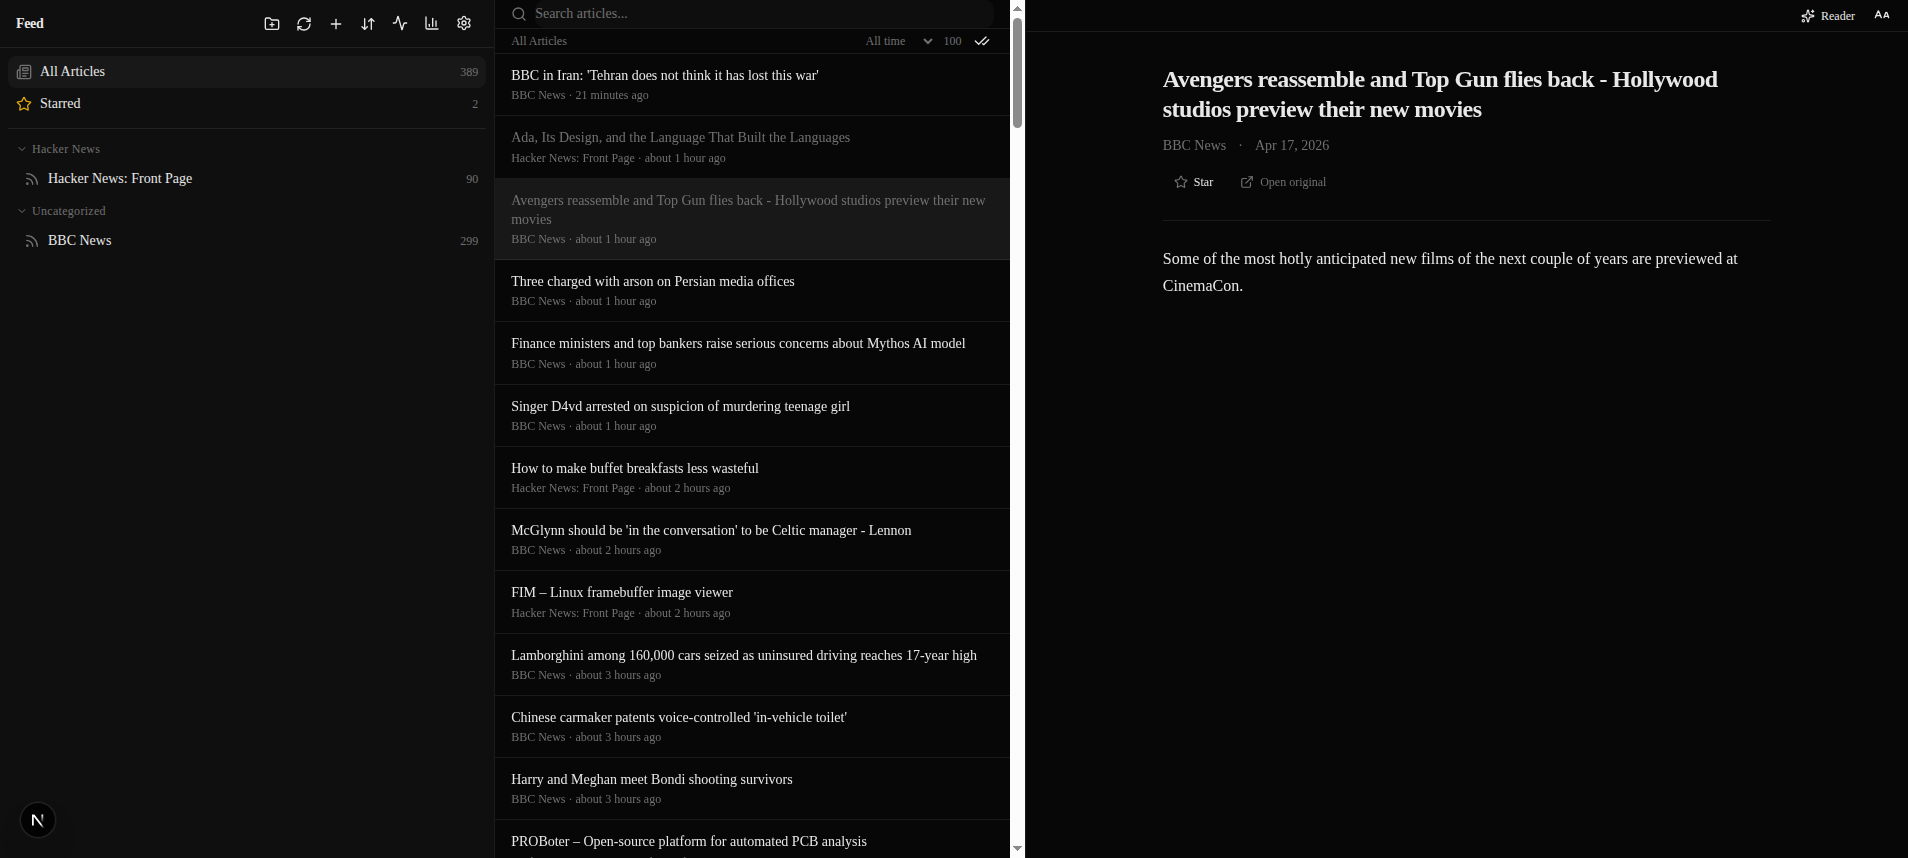
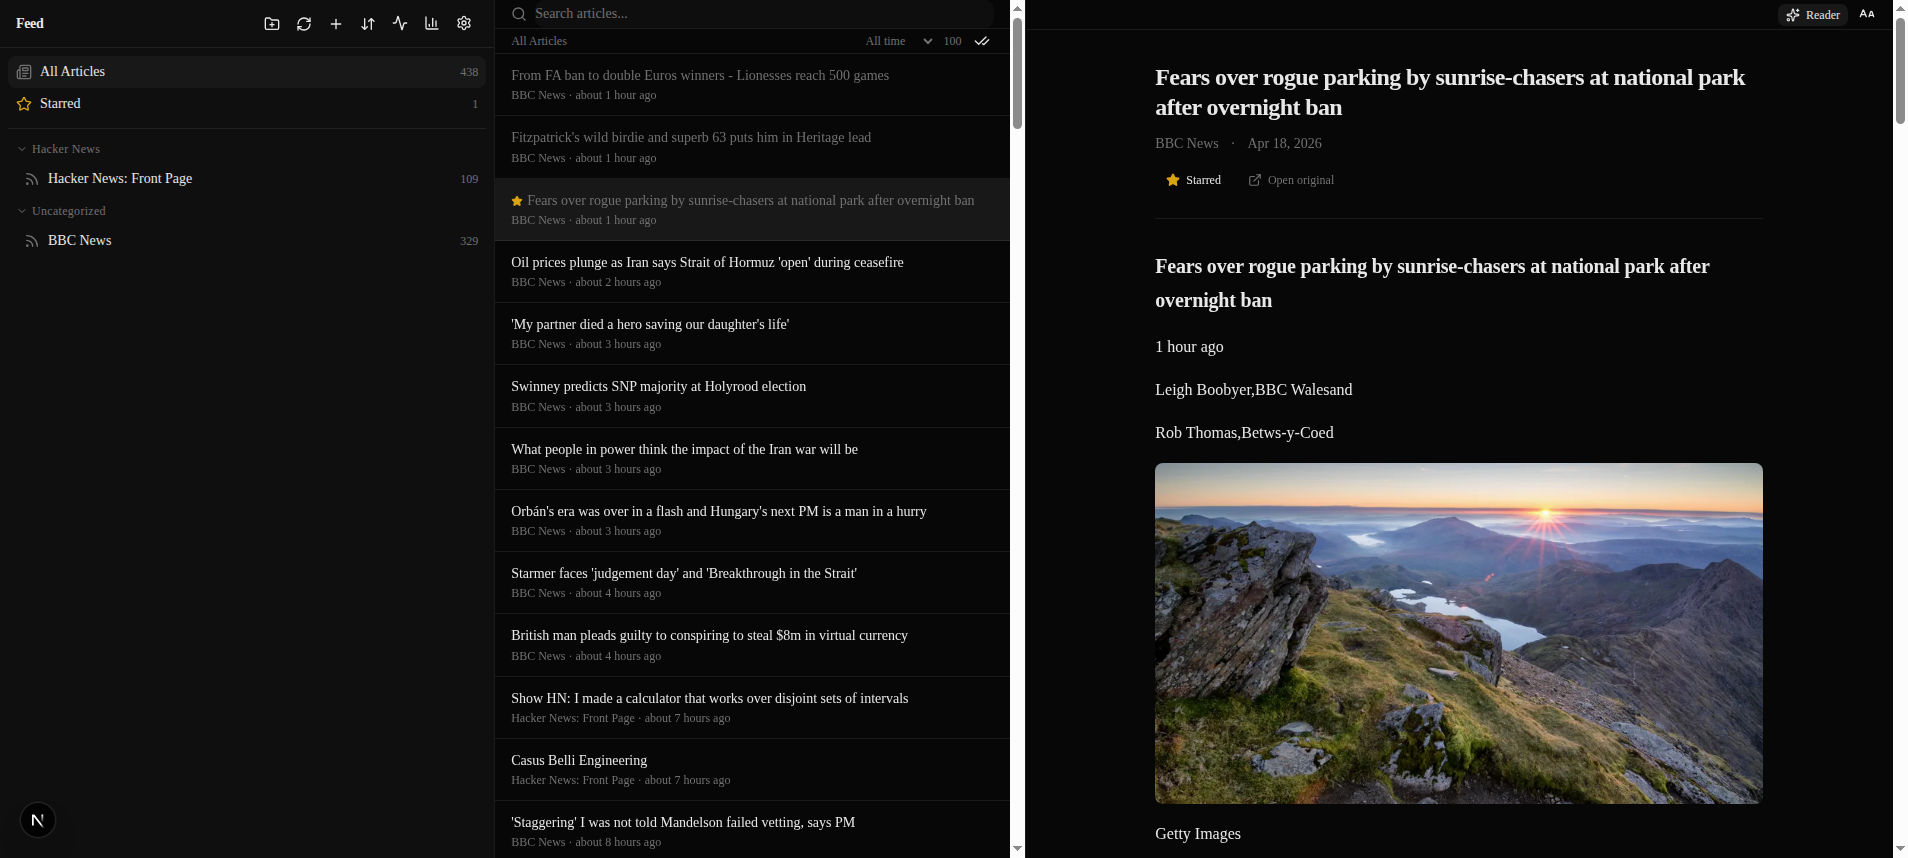
Update README with backup/restore and reader-mode screenshot
- Add backup & restore to the features list
- Mention backup endpoint and BackupSettings in the project layout
- Replace the home screenshot with a reader-mode view of a BBC
  article showing full extracted content with real images (no
  placeholders), which exercises the recent sanitize fixes

diff --git a/README.md b/README.md
@@ -29,9 +29,10 @@ A local-first RSS/Atom reader. Runs entirely on your machine, stores everything 
 - Feed health dashboard — frequency, freshness, error metrics
 - Retention policy — automatic pruning of old read articles (preserves starred, highlighted, unread)
 
-**Export**
+**Export & backup**
 - Starred articles as Markdown or JSON
 - OPML for feed subscriptions
+- Full data backup & restore — JSON export/import of feeds, articles, highlights, and settings
 
 **Interface**
 - Dark-mode-first design using oklch color tokens
@@ -91,10 +92,10 @@ Mutations     →  Server Actions → SQLite → optimistic UI update
 ```
 src/
 ├── app/              # Pages and API routes (App Router)
-│   ├── api/          # feeds, articles, opml, image-proxy, export
+│   ├── api/          # feeds, articles, opml, image-proxy, export, backup
 │   ├── health/       # Feed health dashboard
 │   ├── stats/        # Reading statistics
-│   ├── settings/     # Retention policy configuration
+│   ├── settings/     # Retention policy, backup & restore
 │   └── page.tsx      # Three-pane reader
 ├── actions/          # Server Actions (feeds, articles, folders, retention, highlights)
 ├── components/
@@ -102,7 +103,7 @@ src/
 │   ├── sidebar/      # Sidebar, FeedItem, AddFeedDialog, OpmlActions
 │   ├── articles/     # ArticleList, ArticleRow
 │   ├── reader/       # ReadingPane, ArticleHeader, TypographySettings
-│   ├── settings/     # RetentionSettings
+│   ├── settings/     # RetentionSettings, BackupSettings
 │   └── ui/           # shadcn primitives
 ├── lib/              # feed-parser, sanitize, retention, settings, queries, …
 ├── hooks/            # useKeyboardShortcuts, useAutoRefresh, …
